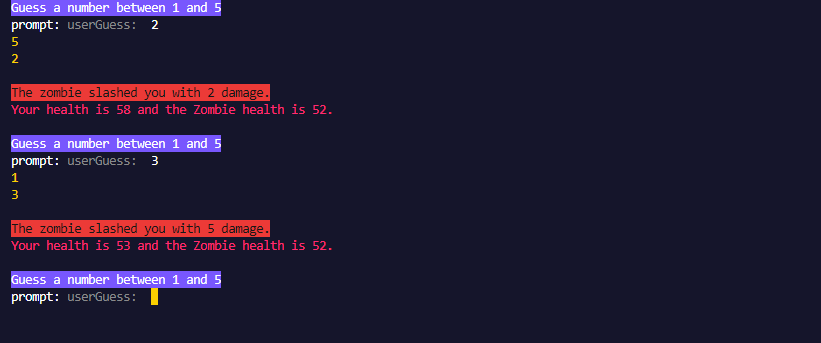
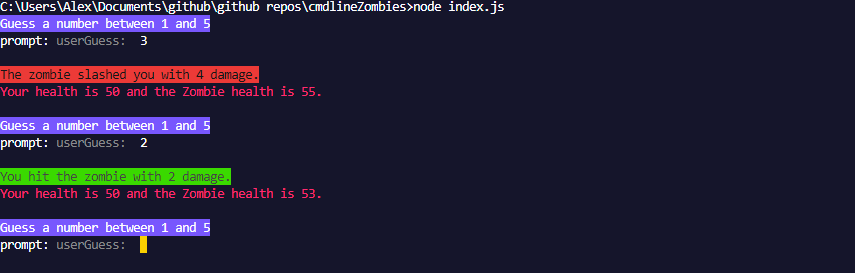
removed some console.logs

diff --git a/index.js b/index.js
@@ -47,8 +47,8 @@ function gameRound(){
                 gameData.zombie.damage = parseInt(Math.floor(Math.random() * 5) + 1);
                 gameData.user.damage = parseInt(Math.floor(Math.random() * 5) + 1)
                 
-                console.log(gameData.zombie.guess)
-                console.log(gameData.user.guess);
+                //console.log(gameData.zombie.guess)
+                //console.log(gameData.user.guess);
 
                 if(gameData.user.guess === gameData.zombie.guess){
                          // decrease zombie health by user.damage

diff --git a/readme.md b/readme.md
@@ -8,5 +8,6 @@ The amount damage differs each round and is also a number between 1 and 5.
 
 The game stops when either the user or zombies health reaches 0 or less.
 
+
 ![example](./imgs/Capture.PNG)
 
